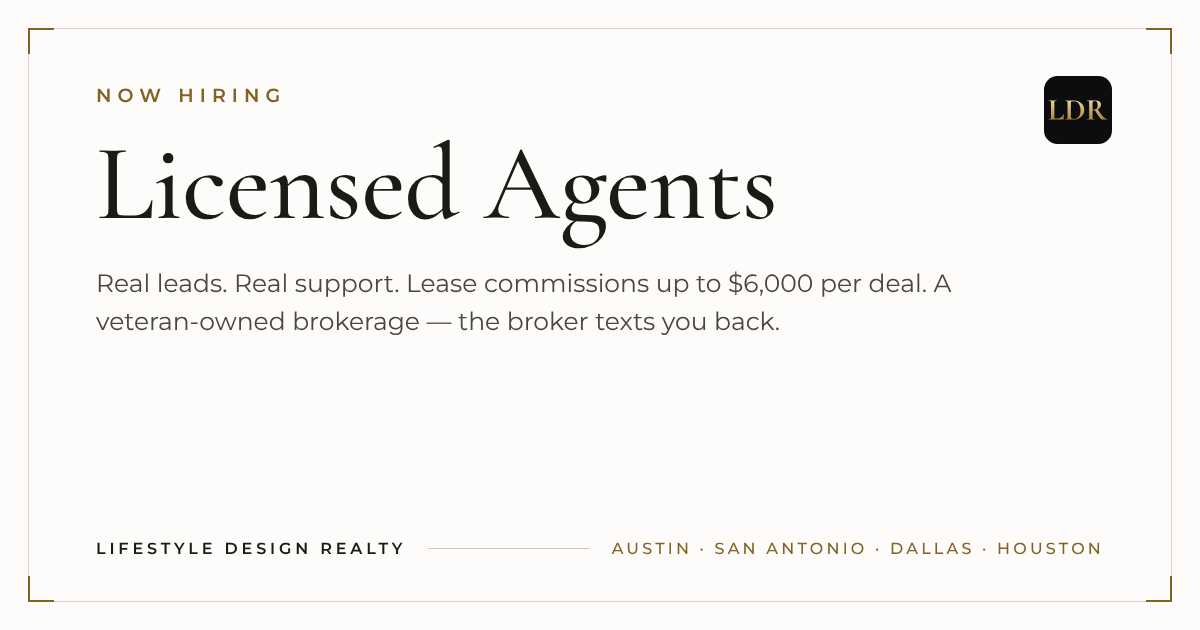
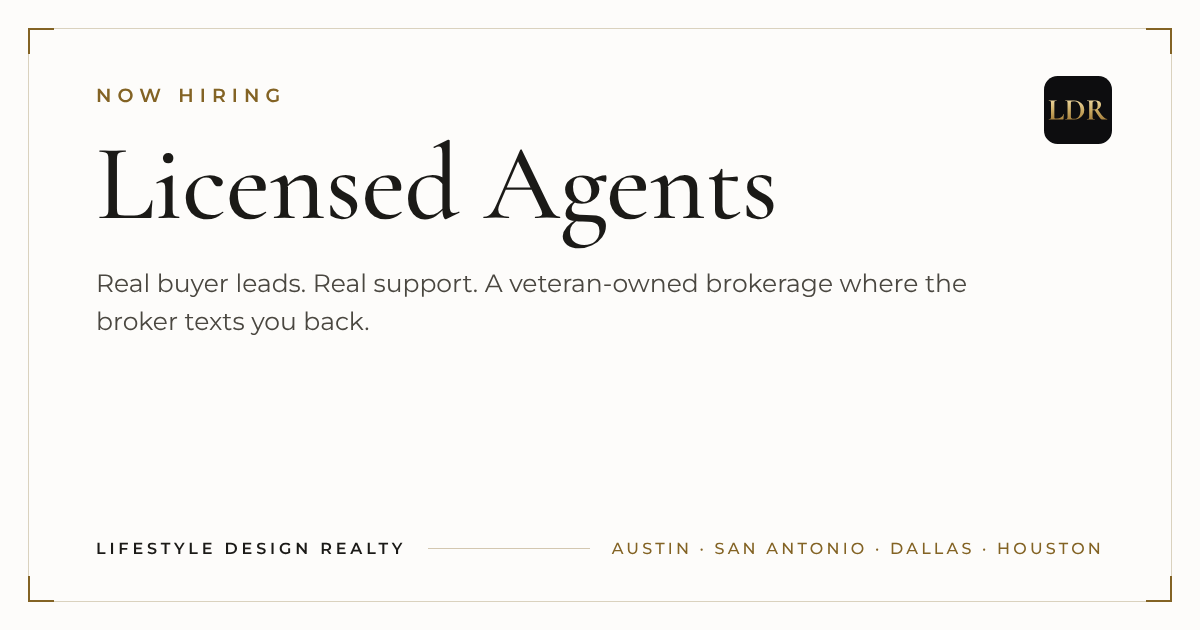
Join share card: drop the lease-commission line
Nov 5, 2026 (Peter: "don't say 6k per lease, most agents don't care about
leases"). The /join preview card and its description now read "Real buyer
leads. Real support." with the veteran-owned line.

Claude-Session: https://claude.ai/code/session_01Q3UtCHLQKJ5fsE8JyBurGy

Changed region(s): [[0.0617, 0.4222, 0.8017, 0.5429]]

diff --git a/server/joinOgCard.test.ts b/server/joinOgCard.test.ts
@@ -22,7 +22,9 @@ describe("join OG card", () => {
 
   it("describes the offer with the lease commission figure and all four markets", () => {
     expect(JOIN_OG_DESCRIPTION).toContain("Real leads. Real support.");
-    expect(JOIN_OG_DESCRIPTION).toContain("$6,000 per deal");
+    // Nov 5, 2026 (Peter: "most agents don't care about leases"): no lease-commission line on the recruiting preview.
+    expect(JOIN_OG_DESCRIPTION).not.toContain("Lease");
+    expect(JOIN_OG_DESCRIPTION).toContain("Real buyer leads");
     expect(JOIN_OG_DESCRIPTION).toContain("Veteran-owned");
     for (const market of ["Austin", "San Antonio", "Dallas", "Houston"]) {
       expect(JOIN_OG_DESCRIPTION).toContain(market);

diff --git a/server/ogMeta.ts b/server/ogMeta.ts
@@ -26,7 +26,7 @@ export const JOIN_OG_IMAGE = "/og/join-1200x630.png";
 export const JOIN_OG_TITLE = "Now Hiring: Licensed Agents — Lifestyle Design Realty";
 
 export const JOIN_OG_DESCRIPTION =
-  "Real leads. Real support. Lease commissions up to $6,000 per deal. Veteran-owned brokerage hiring in Austin, San Antonio, Dallas & Houston.";
+  "Real buyer leads. Real support. Veteran-owned brokerage hiring in Austin, San Antonio, Dallas & Houston.";
 
 /** Public landing-only card. Never attach metadata to personal Deals URLs. */
 export const DEALS_OG_IMAGE = "/og/deals-1200x630.png";
